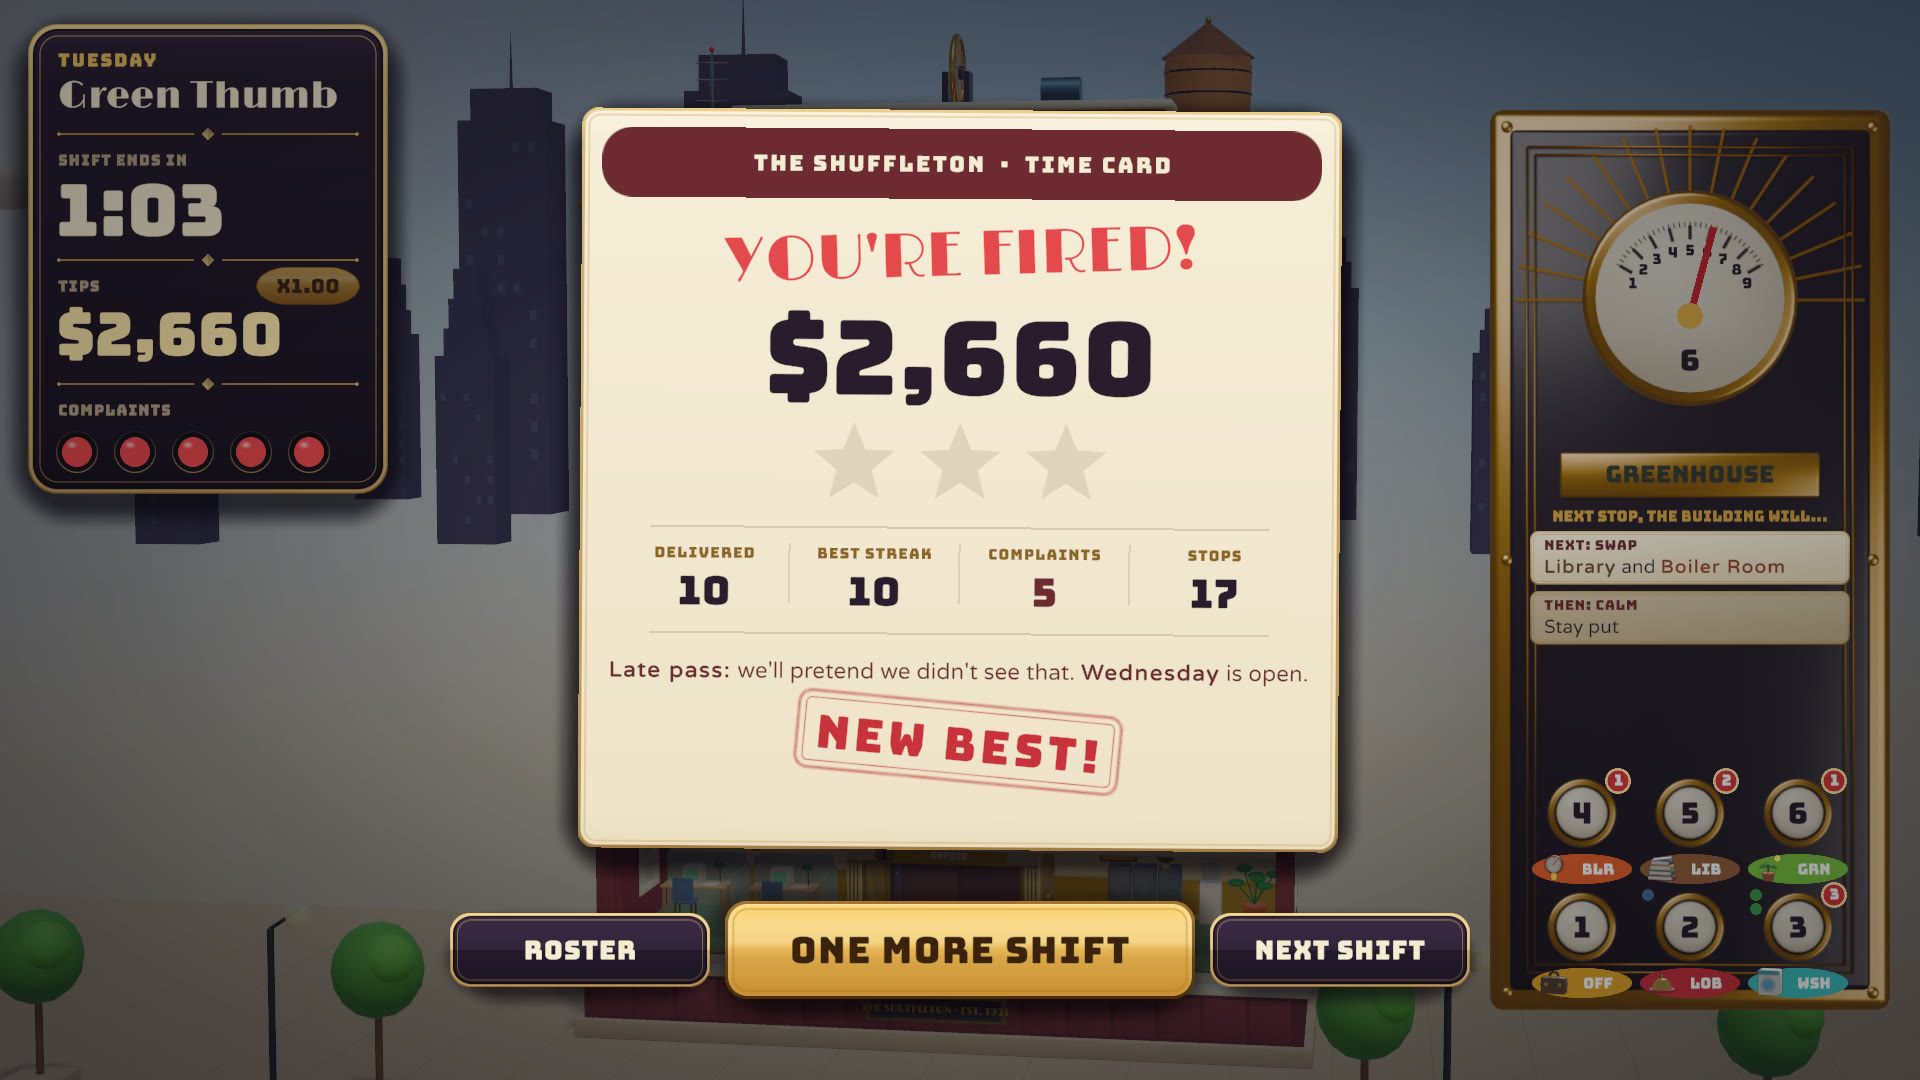
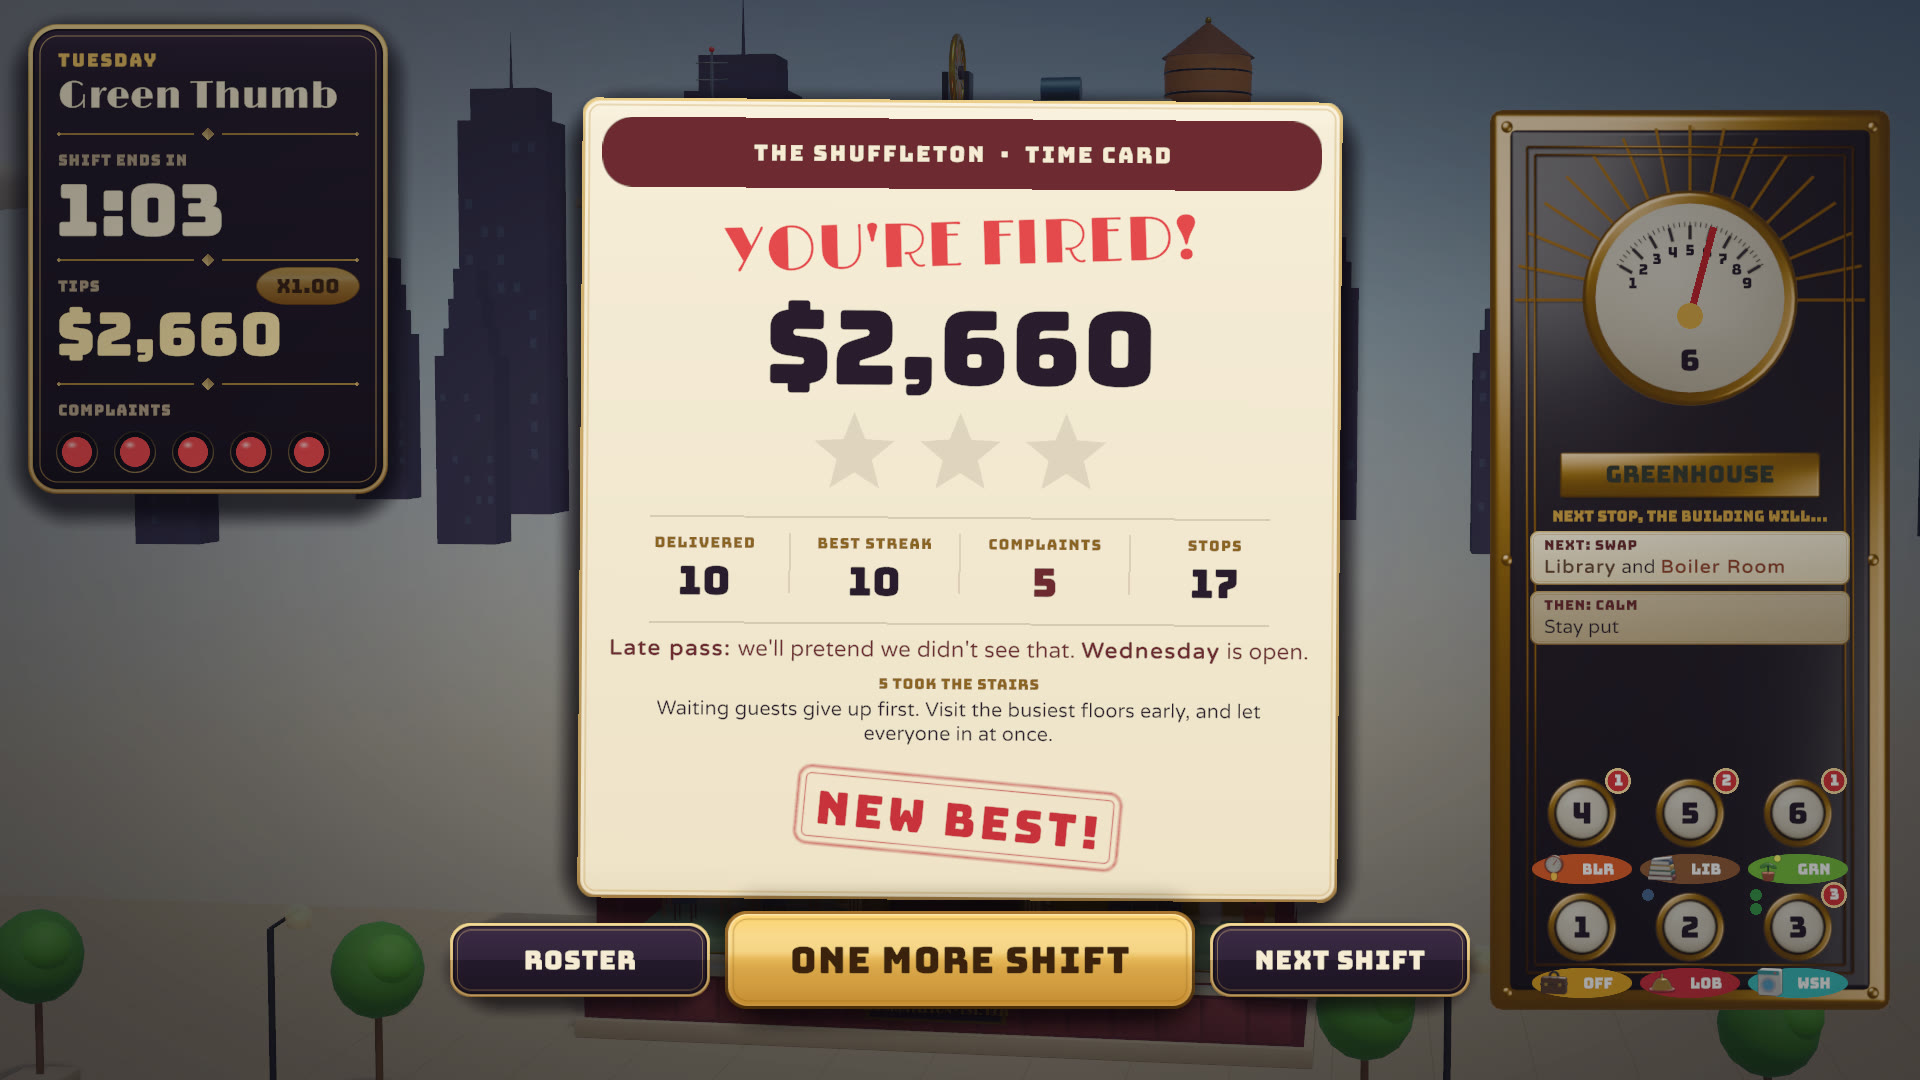
R4: a time card that teaches
ShiftSim counts complaints by cause (ComplaintsBy, indexed by Outcome).
The time card lists them in plain words ("1 fumed in the car · 2
swimmers swept out to sea"), adds one tip for the biggest cause
(Core/Advice.cs), and shows how far the score is from the next star.
The card is 60 px taller so the NEW BEST stamp clears a two-line tip; a
clean shift keeps the old lines.

Verified: EditMode 24/24 (every complaint cause has a label and tip, the
summary and tie-break, and per-cause counts add up to Complaints over
bot runs of every shift), sim fuzz OK, and the autopilot "ui" pass checks
the card text after a weak bot's Graveyard Shift and a walked-away
Tuesday in the built game.
Screenshots: docs/media/improvements/r4-time-card-causes.jpg,
r1-results-late-pass.jpg (refreshed with the new layout)

Changed region(s): [[0.2188, 0.4583, 0.7812, 0.9472], [0.2812, 0.0917, 0.7188, 0.3972]]

diff --git a/Assets/Scripts/Game/UI/Screens.cs b/Assets/Scripts/Game/UI/Screens.cs
@@ -444,7 +444,7 @@ namespace OneMoreFloor
     public sealed class ResultsScreen : UiScreen
     {
         GameRoot game;
-        TextMeshProUGUI stamp, tips, hint, bestStamp, bestLine;
+        TextMeshProUGUI stamp, tips, hint, causes, advice, bestStamp, bestLine;
         readonly TextMeshProUGUI[] statLabel = new TextMeshProUGUI[4], statValue = new TextMeshProUGUI[4];
         Image[] stars;
         UiButton retry, next;
@@ -466,46 +466,57 @@ namespace OneMoreFloor
         void Build()
         {
             Dim(Root, 0.65f);
-            paper = Deco.Panel("TimeCard", Root, new Vector2(760, 740), new Vector2(0, 60), false, Deco.Paper);
+            paper = Deco.Panel("TimeCard", Root, new Vector2(760, 800), new Vector2(0, 40), false, Deco.Paper);
             var ink = Palette.Hex(0x2A1E2E);
-            var band = UiKit.Image("Band", paper, UiKit.Rounded, Palette.Oxblood, new Vector2(720, 70), new Vector2(0, 316));
+            var band = UiKit.Image("Band", paper, UiKit.Rounded, Palette.Oxblood, new Vector2(720, 70), new Vector2(0, 346));
             var hdr = Deco.Label("Hdr", band.transform, "THE SHUFFLETON  ·  TIME CARD", 22, new Vector2(700, 40), Vector2.zero, TextAlignmentOptions.Center, Palette.Cream);
             hdr.characterSpacing = 10f;
-            stamp = UiKit.Text("Stamp", paper, "CLOCKED OUT", 64, Palette.Hex(0x2F6F6A), UiKit.Display, TextAlignmentOptions.Center, new Vector2(700, 90), new Vector2(0, 224));
+            stamp = UiKit.Text("Stamp", paper, "CLOCKED OUT", 64, Palette.Hex(0x2F6F6A), UiKit.Display, TextAlignmentOptions.Center, new Vector2(700, 90), new Vector2(0, 254));
             stamp.rectTransform.localRotation = Quaternion.Euler(0, 0, 2f);
-            tips = UiKit.Text("Tips", paper, "$0", 104, ink, UiKit.Signage, TextAlignmentOptions.Center, new Vector2(700, 120), new Vector2(0, 122));
-            stars = Stars.Row(paper, 3, 0, new Vector2(0, 18), 88, 18, true);
-            UiKit.Image("Rule", paper, null, new Color(0.5f, 0.35f, 0.2f, 0.3f), new Vector2(620, 2), new Vector2(0, -48));
+            tips = UiKit.Text("Tips", paper, "$0", 104, ink, UiKit.Signage, TextAlignmentOptions.Center, new Vector2(700, 120), new Vector2(0, 152));
+            stars = Stars.Row(paper, 3, 0, new Vector2(0, 48), 88, 18, true);
+            UiKit.Image("Rule", paper, null, new Color(0.5f, 0.35f, 0.2f, 0.3f), new Vector2(620, 2), new Vector2(0, -18));
             for (int i = 0; i < 4; i++)
             {
                 float x = -255 + i * 170;
-                statLabel[i] = UiKit.Text("L" + i, paper, "", 15, Palette.Hex(0x8C6424), UiKit.Signage, TextAlignmentOptions.Center, new Vector2(170, 24), new Vector2(x, -74));
+                statLabel[i] = UiKit.Text("L" + i, paper, "", 15, Palette.Hex(0x8C6424), UiKit.Signage, TextAlignmentOptions.Center, new Vector2(170, 24), new Vector2(x, -44));
                 statLabel[i].characterSpacing = 6f;
-                statValue[i] = UiKit.Text("V" + i, paper, "", 40, ink, UiKit.Signage, TextAlignmentOptions.Center, new Vector2(170, 50), new Vector2(x, -112));
-                if (i > 0) UiKit.Image("Sep" + i, paper, null, new Color(0.5f, 0.35f, 0.2f, 0.25f), new Vector2(2, 60), new Vector2(x - 85, -94));
+                statValue[i] = UiKit.Text("V" + i, paper, "", 40, ink, UiKit.Signage, TextAlignmentOptions.Center, new Vector2(170, 50), new Vector2(x, -82));
+                if (i > 0) UiKit.Image("Sep" + i, paper, null, new Color(0.5f, 0.35f, 0.2f, 0.25f), new Vector2(2, 60), new Vector2(x - 85, -64));
             }
-            UiKit.Image("Rule2", paper, null, new Color(0.5f, 0.35f, 0.2f, 0.3f), new Vector2(620, 2), new Vector2(0, -154));
-            hint = UiKit.Text("Hint", paper, "", 24, Palette.Oxblood, UiKit.Body, TextAlignmentOptions.Center, new Vector2(700, 40), new Vector2(0, -192));
+            UiKit.Image("Rule2", paper, null, new Color(0.5f, 0.35f, 0.2f, 0.3f), new Vector2(620, 2), new Vector2(0, -124));
+            hint = UiKit.Text("Hint", paper, "", 24, Palette.Oxblood, UiKit.Body, TextAlignmentOptions.Center, new Vector2(700, 36), new Vector2(0, -150));
             hint.richText = true;
             hint.enableAutoSizing = true;
             hint.fontSizeMin = 16;
             hint.fontSizeMax = 24;
+            // what the complaints were about, and one tip for the biggest cause
+            causes = UiKit.Text("Causes", paper, "", 15, Palette.Hex(0x8C6424), UiKit.Signage, TextAlignmentOptions.Center, new Vector2(700, 26), new Vector2(0, -184));
+            causes.characterSpacing = 3f;
+            causes.enableAutoSizing = true;
+            causes.fontSizeMin = 11;
+            causes.fontSizeMax = 15;
+            advice = UiKit.Text("Advice", paper, "", 20, Palette.Hex(0x2A1E2E), UiKit.Body, TextAlignmentOptions.Top, new Vector2(640, 56), new Vector2(0, -226));
+            advice.textWrappingMode = TextWrappingModes.Normal;
             var stampInk = Palette.Hex(0xC8303A);
             stampInk.a = 0.88f;
-            bestBox = UiKit.Rect("BestStamp", paper, new Vector2(0.5f, 0.5f), new Vector2(0.5f, 0.5f), new Vector2(0.5f, 0.5f), new Vector2(0, -262), new Vector2(330, 84));
+            bestBox = UiKit.Rect("BestStamp", paper, new Vector2(0.5f, 0.5f), new Vector2(0.5f, 0.5f), new Vector2(0.5f, 0.5f), new Vector2(0, -318), new Vector2(330, 84));
             bestBox.localRotation = Quaternion.Euler(0, 0, -5f);
             var ring = UiKit.Image("Ring", bestBox, Deco.StampRing, stampInk, new Vector2(330, 84));
             Deco.Fill(ring.rectTransform);
             bestStamp = UiKit.Text("Best", bestBox, "NEW BEST!", 46, Palette.Hex(0xC8303A), UiKit.Signage, TextAlignmentOptions.Center, new Vector2(310, 70), new Vector2(0, -2));
             bestStamp.characterSpacing = 8f;
-            bestLine = UiKit.Text("BestLine", paper, "", 18, Palette.Hex(0x8C6424), UiKit.Signage, TextAlignmentOptions.Center, new Vector2(600, 30), new Vector2(0, -258));
+            bestLine = UiKit.Text("BestLine", paper, "", 18, Palette.Hex(0x8C6424), UiKit.Signage, TextAlignmentOptions.Center, new Vector2(600, 30), new Vector2(0, -318));
             bestLine.characterSpacing = 6f;
-            retry = UiButton.Create(Root, "ONE MORE SHIFT", new Vector2(0, -410), new Vector2(460, 96), () => game.RestartShift(), true, 36);
-            next = UiButton.Create(Root, "NEXT SHIFT", new Vector2(380, -410), new Vector2(260, 74), () => game.ShowIntro(shift + 1), false, 26);
-            UiButton.Create(Root, "ROSTER", new Vector2(-380, -410), new Vector2(260, 74), () => game.ShowRoster(), false, 26);
+            retry = UiButton.Create(Root, "ONE MORE SHIFT", new Vector2(0, -420), new Vector2(460, 96), () => game.RestartShift(), true, 36);
+            next = UiButton.Create(Root, "NEXT SHIFT", new Vector2(380, -420), new Vector2(260, 74), () => game.ShowIntro(shift + 1), false, 26);
+            UiButton.Create(Root, "ROSTER", new Vector2(-380, -420), new Vector2(260, 74), () => game.ShowRoster(), false, 26);
             Primary = () => retry.Click();
             Back = () => game.ShowRoster();
         }
+
+        public string CausesText => causes.text;
+        public string AdviceText => advice.text;
 
         public void Setup(ShiftSim sim, bool best, bool latePass = false)
         {
@@ -529,9 +540,12 @@ namespace OneMoreFloor
             else if (latePass)
                 hint.text = $"<b>Late pass:</b> we'll pretend we didn't see that. <b>{ShiftCatalog.Get(shift + 1).Day}</b> is open.";
             else if (starCount < 3)
-                hint.text = $"Next star at <b>${sim.Def.Stars[starCount]:N0}</b>";
+                hint.text = $"Next star at <b>${sim.Def.Stars[starCount]:N0}</b>  ·  ${sim.Def.Stars[starCount] - sim.Score:N0} to go";
             else
                 hint.text = "A perfect shift. The Management is speechless.";
+            causes.text = Advice.Summary(sim.ComplaintsBy).ToUpperInvariant();
+            var biggest = Advice.Biggest(sim.ComplaintsBy);
+            advice.text = biggest.HasValue ? Advice.Tip(biggest.Value) : "";
             foreach (var s in stars) { s.color = Stars.Unlit(true); s.rectTransform.localScale = Vector3.one; }
             bestBox.gameObject.SetActive(false);
             int prev = SaveData.Current.Best[shift];

diff --git a/Assets/Scripts/Core/Advice.cs b/Assets/Scripts/Core/Advice.cs
@@ -1,0 +1,64 @@
+namespace OneMoreFloor.Core
+{
+    /// <summary>
+    /// What the time card says about a shift's complaints: each cause in plain words, and one tip for the
+    /// biggest one, in the same voice as the coach.
+    /// </summary>
+    public static class Advice
+    {
+        /// <summary>The outcomes that count as complaints, in the order the time card lists them.</summary>
+        public static readonly Outcome[] Causes = { Outcome.StormedOff, Outcome.Fumed, Outcome.Poofed, Outcome.SweptAway, Outcome.PackageLost };
+
+        public static bool IsComplaint(Outcome o) => System.Array.IndexOf(Causes, o) >= 0;
+
+        public static string Label(Outcome o, int n)
+        {
+            switch (o)
+            {
+                case Outcome.StormedOff: return $"{n} took the stairs";
+                case Outcome.Fumed: return $"{n} fumed in the car";
+                case Outcome.Poofed: return n == 1 ? "1 vampire met the sun" : $"{n} vampires met the sun";
+                case Outcome.SweptAway: return n == 1 ? "1 swimmer swept out to sea" : $"{n} swimmers swept out to sea";
+                case Outcome.PackageLost: return n == 1 ? "1 parcel left with its floor" : $"{n} parcels left with their floors";
+                default: return "";
+            }
+        }
+
+        public static string Tip(Outcome o)
+        {
+            switch (o)
+            {
+                case Outcome.StormedOff: return "Waiting guests give up first. Visit the busiest floors early, and let everyone in at once.";
+                case Outcome.Fumed: return "Riders run out of patience too. Drop off the nearest first, and skip long detours with a full car.";
+                case Outcome.Poofed: return "Doors opening on sunlight turn vampires into bats. The trip preview marks every sunny stop.";
+                case Outcome.SweptAway: return "The Ocean only stays a few stops. Fetch swimmers before it leaves, then head for the Lobby.";
+                case Outcome.PackageLost: return "A courier's floor is leaving. Watch its countdown and deliver before it reaches zero.";
+                default: return "";
+            }
+        }
+
+        /// <summary>"2 took the stairs · 1 vampire met the sun", or "" for a clean shift.</summary>
+        public static string Summary(int[] by)
+        {
+            var sb = new System.Text.StringBuilder();
+            foreach (var o in Causes)
+            {
+                int n = by[(int)o];
+                if (n <= 0) continue;
+                if (sb.Length > 0) sb.Append("  ·  ");
+                sb.Append(Label(o, n));
+            }
+            return sb.ToString();
+        }
+
+        /// <summary>The cause with the most complaints (the first listed wins a tie), or null for a clean shift.</summary>
+        public static Outcome? Biggest(int[] by)
+        {
+            Outcome? best = null;
+            int most = 0;
+            foreach (var o in Causes)
+                if (by[(int)o] > most) { most = by[(int)o]; best = o; }
+            return best;
+        }
+    }
+}

diff --git a/Assets/Tests/EditMode/AdviceTests.cs b/Assets/Tests/EditMode/AdviceTests.cs
@@ -1,0 +1,49 @@
+using System;
+using NUnit.Framework;
+using OneMoreFloor.Core;
+
+namespace OneMoreFloor.Tests
+{
+    public class AdviceTests
+    {
+        [Test]
+        public void EveryComplaintCauseHasWordsAndATip()
+        {
+            foreach (Outcome o in Enum.GetValues(typeof(Outcome)))
+            {
+                if (!Advice.IsComplaint(o)) continue;
+                Assert.IsNotEmpty(Advice.Label(o, 1), o.ToString());
+                Assert.IsNotEmpty(Advice.Label(o, 3), o.ToString());
+                Assert.IsNotEmpty(Advice.Tip(o), o.ToString());
+            }
+            Assert.IsFalse(Advice.IsComplaint(Outcome.Delivered));
+            Assert.IsFalse(Advice.IsComplaint(Outcome.WentWithFloor));
+        }
+
+        [Test]
+        public void SummaryAndBiggestCause()
+        {
+            var by = new int[Enum.GetValues(typeof(Outcome)).Length];
+            Assert.AreEqual("", Advice.Summary(by));
+            Assert.IsNull(Advice.Biggest(by));
+            by[(int)Outcome.StormedOff] = 2;
+            by[(int)Outcome.Poofed] = 3;
+            Assert.AreEqual("2 took the stairs  ·  3 vampires met the sun", Advice.Summary(by));
+            Assert.AreEqual(Outcome.Poofed, Advice.Biggest(by));
+        }
+
+        [Test]
+        public void ComplaintCausesAddUpInRealShifts()
+        {
+            // every complaint the sim raises is one of the listed causes
+            foreach (var def in ShiftCatalog.All)
+                for (ulong seed = 1; seed <= 3; seed++)
+                {
+                    var sim = Bot.PlayOut(def, seed * 101, Bot.Human(seed, 0f));
+                    int sum = 0;
+                    foreach (var o in Advice.Causes) sum += sim.ComplaintsBy[(int)o];
+                    Assert.AreEqual(sim.Complaints, sum, $"{def.Id} seed {seed}");
+                }
+        }
+    }
+}

diff --git a/Assets/Scripts/Game/Automation/AutoPilot.cs b/Assets/Scripts/Game/Automation/AutoPilot.cs
@@ -214,6 +214,22 @@ namespace OneMoreFloor
             Shot("ui_roster_late_pass");
             Check("the title offers Wednesday next", save.NextShift() == 2, "ui");
 
+            Check("the time card lists what the complaints were about", results.CausesText.Contains("TOOK THE STAIRS") && results.AdviceText.Length > 0, "ui");
+
+            // a weak player's Graveyard Shift: several kinds of complaint, one tip for the biggest
+            for (int k = 0; k < 8; k++) save.Stars[k] = Mathf.Max(save.Stars[k], 1);
+            root.StartShift(8, 1301);
+            runner = root.Runner;
+            runner.AutoBot = Bot.Human(7, 0f);
+            yield return Wait(1f);
+            runner.FastForward(runner.Sim.TimeLeft + 0.1f);
+            yield return Wait(6.5f);
+            sim = runner.Sim;
+            var biggest = Advice.Biggest(sim.ComplaintsBy);
+            Check($"weak Graveyard time card: '{results.CausesText}' / '{results.AdviceText}'",
+                results.Visible && sim.Complaints > 0 && biggest.HasValue && results.AdviceText == Advice.Tip(biggest.Value), "ui");
+            Shot("ui_results_causes");
+
             // auto-pause: losing focus, then the controller going away
             var pause = FindAnyObjectByType<PauseScreen>(FindObjectsInactive.Include);
             root.AutoPause = true;

diff --git a/Assets/Scripts/Core/ShiftSim.cs b/Assets/Scripts/Core/ShiftSim.cs
@@ -23,6 +23,8 @@ namespace OneMoreFloor.Core
         public bool ClockRunning;
         public bool Ended, Fired, RushHour;
         public int Score, Streak, BestStreak, Complaints, DeliveredCount, Stops;
+        /// <summary>Complaints by cause, indexed by <see cref="Outcome"/>.</summary>
+        public readonly int[] ComplaintsBy = new int[System.Enum.GetValues(typeof(Outcome)).Length];
 
         int nextId = 1;
         readonly List<Card> history = new List<Card>();
@@ -560,6 +562,7 @@ namespace OneMoreFloor.Core
         void Complain(Passenger p, Outcome why)
         {
             Complaints++;
+            ComplaintsBy[(int)why]++;
             if (Streak > 0) Emit(new SimEvent { Type = Ev.StreakBroken, Value = Streak });
             Streak = 0;
             Emit(new SimEvent { Type = Ev.Complaint, Pid = p?.Id ?? 0, Value = Complaints, Aux = (int)why });

diff --git a/README.md b/README.md
@@ -180,7 +180,8 @@ Ten floors: the Lobby, Office, Library, Laundromat, Boiler Room, Greenhouse ☀,
 | 10 | Overtime | Endless. It keeps getting busier until five complaints. |
 
 Each shift opens with a sticky note from The Management and a "New today" card, then a short scripted moment that
-shows the new rule. The first time a rule matters in play, a one-line tip points at it. Progress, best scores and
+shows the new rule. The first time a rule matters in play, a one-line tip points at it. At clock-out, the time card lists what each
+complaint was about, with a tip for the biggest cause and how far you are from the next star. Progress, best scores and
 settings are saved locally.
 
 ## Screenshots
